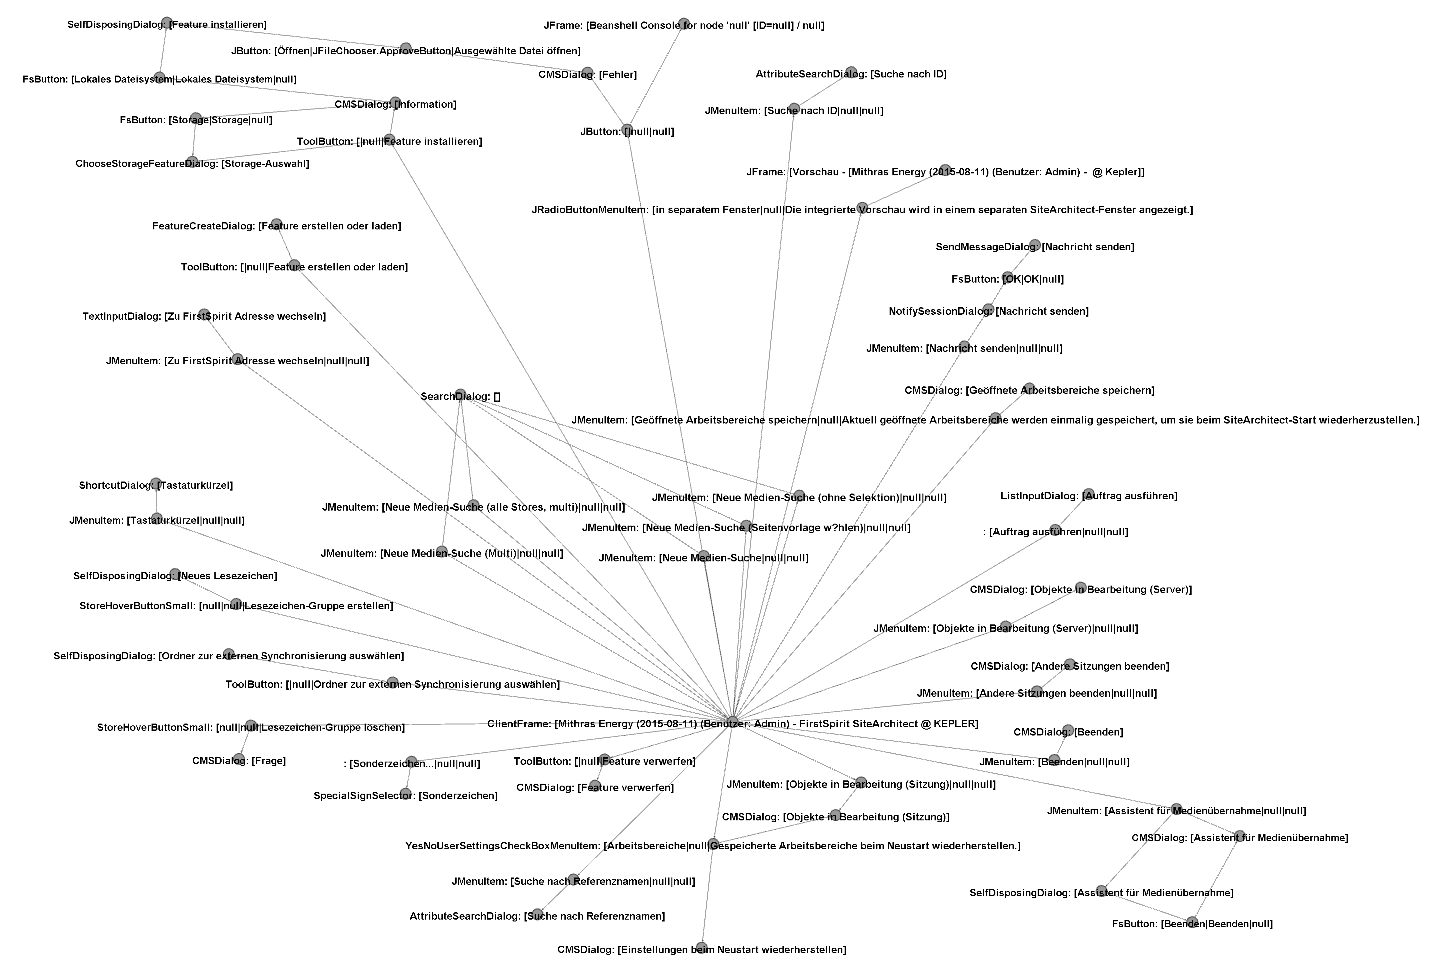
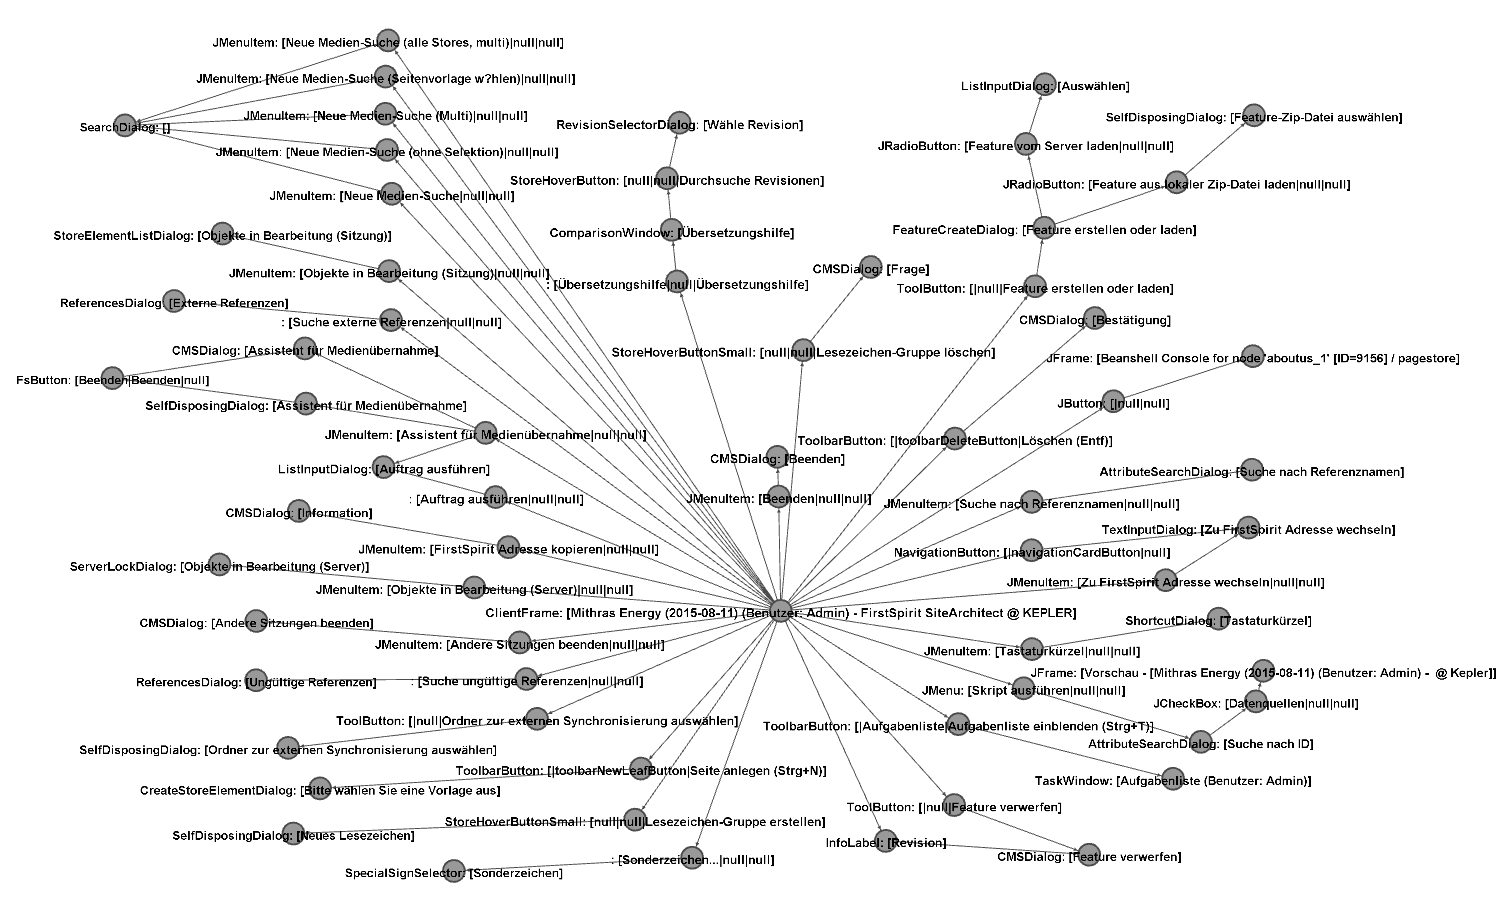
ein bild durch ein besseres ersetzt, bilder verbessert

diff --git a/masterarbeit/kapitel/kapitel5.tex b/masterarbeit/kapitel/kapitel5.tex
@@ -3,14 +3,17 @@
 \chapter{Konkret getestete Applikationen}\label{chapter:concretetests}
 
 
-Dieses Kapitel
+Dieses Kapitel stellt nun einige Ergebnisse, die mittels des nach dem Konzepts tatsächlich
+implementierten vollautomatischen GUI-Crawler und -Tester erzeugt wurden.
+Als getestetes Programm dient hierbei eine Enwicklerversion der von der
+e-Spirit AG entwickelten Software FirstSpirit \cite{website:firstspirit}.
 
 
 \section{Resultate}\label{section:testresults}
 
 \begin{figure}
 	\centering
-	\includegraphics[width=0.85\textwidth]{bilder/screenshot_freespirit.png}
+	\includegraphics[angle=90,width=0.85\textwidth]{bilder/screenshot_freespirit.png}
 	\caption{Screenshot der e-Spirit CMS-Anwendung FirstSpirit \cite{website:firstspirit} 
 	sowie anhängigem Swing Explorer, der den Komponentenbaum der Applikation darstellt}
 	\label{fig:screenshot_freespirit}
@@ -18,10 +21,21 @@ Dieses Kapitel
 
 \begin{figure}
 	\centering
-	\includegraphics[width=0.85\textwidth]{bilder/model_freespirit.png}
+	\includegraphics[width=0.85\textwidth]{bilder/model_firstspirit_notext.png}
 	\caption{mit Gephi \cite{website:gephi} und dem Yifan Hu Algorithmus \cite{hu2005efficient}
     sowie noch für Lesbarkeit maneull angepasste visualierte Graphausgabe 
-	des Autotesters über FirstSpirit bei einem der ergiebigeren Durchläufe.}
+	des Autotesters über FirstSpirit, hoher Zoomfaktor, keine Beschriftungen.
+	Die Pfeile des gerichteten Graphen sind so sichtbar.}
+	\label{fig:model_firstspirit_notext}
+\end{figure}
+
+\begin{figure}
+	\centering
+	\includegraphics[angle=90,width=0.85\textwidth]{bilder/model_freespirit.png}
+	\caption{mit Gephi \cite{website:gephi} und dem Yifan Hu Algorithmus \cite{hu2005efficient}
+    sowie noch für Lesbarkeit maneull angepasste visualierte Graphausgabe 
+	des Autotesters über FirstSpirit bei einem der ergiebigeren Durchläufe.
+	Beschriftungen aktiviert.}
 	\label{fig:model_freespirit_06.10.2015}
 \end{figure}
 
@@ -30,8 +44,9 @@ Dieses Kapitel
 Die Knoten sind in Dreiergruppen angeordnet: Ein Ursprungsfenster, ein Übergangsknoten
 (bzw. ein Wort des Modells), sowie der resultierende Zustand bzw. das sich öffnende Fenster.
 Dies ist schlicht eine Frage der Lesbarkeit - anstelle der mittleren Knoten für Übergänge sollten
-eigentlich schlicht beschriftete Kanten benutzt werden, aber dies schränkt die Möglichkeiten,
-den anhängigen Text in eine lesbare Form zu bringen, zu stark ein.
+eigentlich einfach beschriftete Kanten benutzt werden, aber dies schränkt die Möglichkeiten,
+den anhängigen Text in eine lesbare Form zu bringen, zu stark ein. Die Alternativen waren
+Platzhaltesymbole im Bild und eine gewaltige Legende, oder diese Variante.
 
 
 \section{Vergleich mit klassischen Tests}\label{section:testcomparisonclassic}
